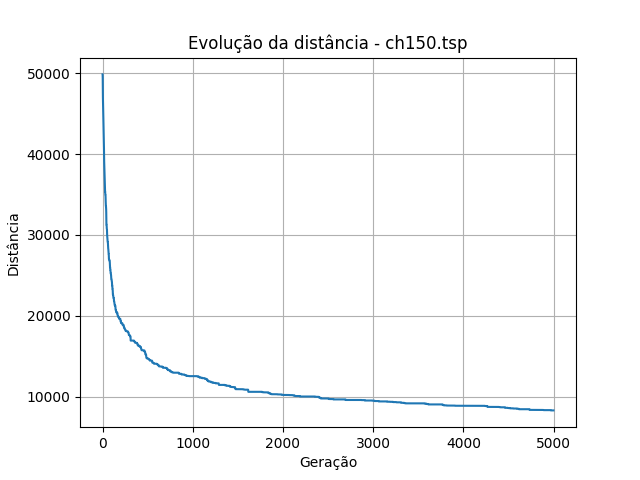
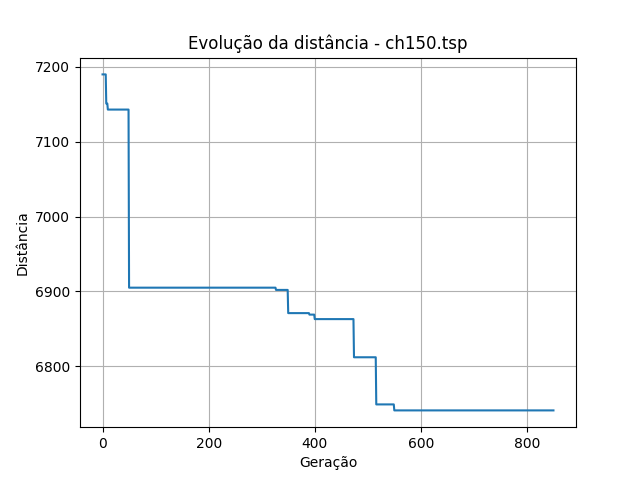
Melhoria no código e nos gráficos

diff --git a/trabIA.py b/trabIA.py
@@ -78,8 +78,24 @@ def calculaDistancia(rota, distancia):
     custo += distancia[rota[-1]][rota[0]]
     return custo
 
+# === HEURÍSTICA NEAREST NEIGHBOR ===
+def nearest_neighbor(num_cidades, matriz):
+    rota = [0]  # Começa na cidade 0
+    visitadas = {0}
+    while len(rota) < num_cidades:
+        atual = rota[-1]
+        menor_dist = float('inf')
+        proxima = None
+        for j in range(num_cidades):
+            if j not in visitadas and matriz[atual][j] < menor_dist:
+                menor_dist = matriz[atual][j]
+                proxima = j
+        rota.append(proxima)
+        visitadas.add(proxima)
+    return rota
+
 # === SELEÇÃO, CROSSOVER E MUTAÇÃO ===
-def selecao_torneio(populacao, matriz, tamanho_torneio=5):
+def selecao_torneio(populacao, matriz, tamanho_torneio=7):
     torneio = rd.sample(populacao, tamanho_torneio)
     return min(torneio, key=lambda r: r.custo)
 
@@ -94,9 +110,10 @@ def crossover_ox(pai1, pai2):
             while filho[pos % tamanho] is not None:
                 pos += 1
             filho[pos % tamanho] = cidade
+    assert all(c in filho for c in range(tamanho)), "Crossover gerou rota inválida"
     return filho
 
-def mutacao(rota, prob_mutacao=0.15):
+def mutacao(rota, prob_mutacao):
     if rd.random() < prob_mutacao:
         if rd.random() < 0.5:
             i, j = rd.sample(range(len(rota)), 2)
@@ -109,7 +126,7 @@ def mutacao(rota, prob_mutacao=0.15):
 def dois_opt(rota, matriz):
     melhor_rota = rota[:]
     melhor_custo = calculaDistancia(rota, matriz)
-    max_iteracoes = 10
+    max_iteracoes = 50
     iteracao = 0
     while iteracao < max_iteracoes:
         melhorou = False
@@ -130,13 +147,19 @@ def dois_opt(rota, matriz):
 # === ALGORITMO GENÉTICO ===
 def algoritmo_genetico(args):
     matriz, num_cidades, arquivo_nome = args
-    quantidade_de_rotas = max(50, num_cidades // 2)
-    populacao = [Rota(geraRotaUnica(num_cidades), calculaDistancia(geraRotaUnica(num_cidades), matriz)) for _ in range(quantidade_de_rotas)]
-    num_geracoes = 5000
+    quantidade_de_rotas = max(100, num_cidades)
+    num_geracoes = max(5000, num_cidades * 20)
     prob_crossover = 0.9
-    prob_mutacao = 0.15
     elitismo = 2
-    max_sem_melhora = 300
+    max_sem_melhora = max(300, num_cidades * 2)
+
+    # Inicialização sequencial da população
+    populacao = []
+    for _ in range(quantidade_de_rotas - 1):
+        rota = geraRotaUnica(num_cidades)
+        populacao.append(Rota(rota, calculaDistancia(rota, matriz)))
+    nn_rota = nearest_neighbor(num_cidades, matriz)
+    populacao.append(Rota(nn_rota, calculaDistancia(nn_rota, matriz)))
 
     melhor_custo = float('inf')
     sem_melhora = 0
@@ -147,6 +170,9 @@ def algoritmo_genetico(args):
         nova_populacao = []
         populacao.sort(key=lambda r: r.custo)
         nova_populacao.extend(populacao[:elitismo])
+
+        # Mutação adaptativa
+        prob_mutacao = 0.2 * (1 - geracao / num_geracoes) + 0.05
 
         while len(nova_populacao) < quantidade_de_rotas:
             pai1 = selecao_torneio(populacao, matriz)
@@ -162,6 +188,12 @@ def algoritmo_genetico(args):
             nova_populacao.append(Rota(filho1, calculaDistancia(filho1, matriz)))
             if len(nova_populacao) < quantidade_de_rotas:
                 nova_populacao.append(Rota(filho2, calculaDistancia(filho2, matriz)))
+
+        # Aplicar 2-opt a cada 50 gerações
+        if geracao % 50 == 0:
+            melhor_atual = min(populacao, key=lambda r: r.custo)
+            rota_opt, custo_opt = dois_opt(melhor_atual.rota, matriz)
+            nova_populacao.append(Rota(rota_opt, custo_opt))
 
         populacao = nova_populacao
         atual_melhor = min(populacao, key=lambda r: r.custo).custo
